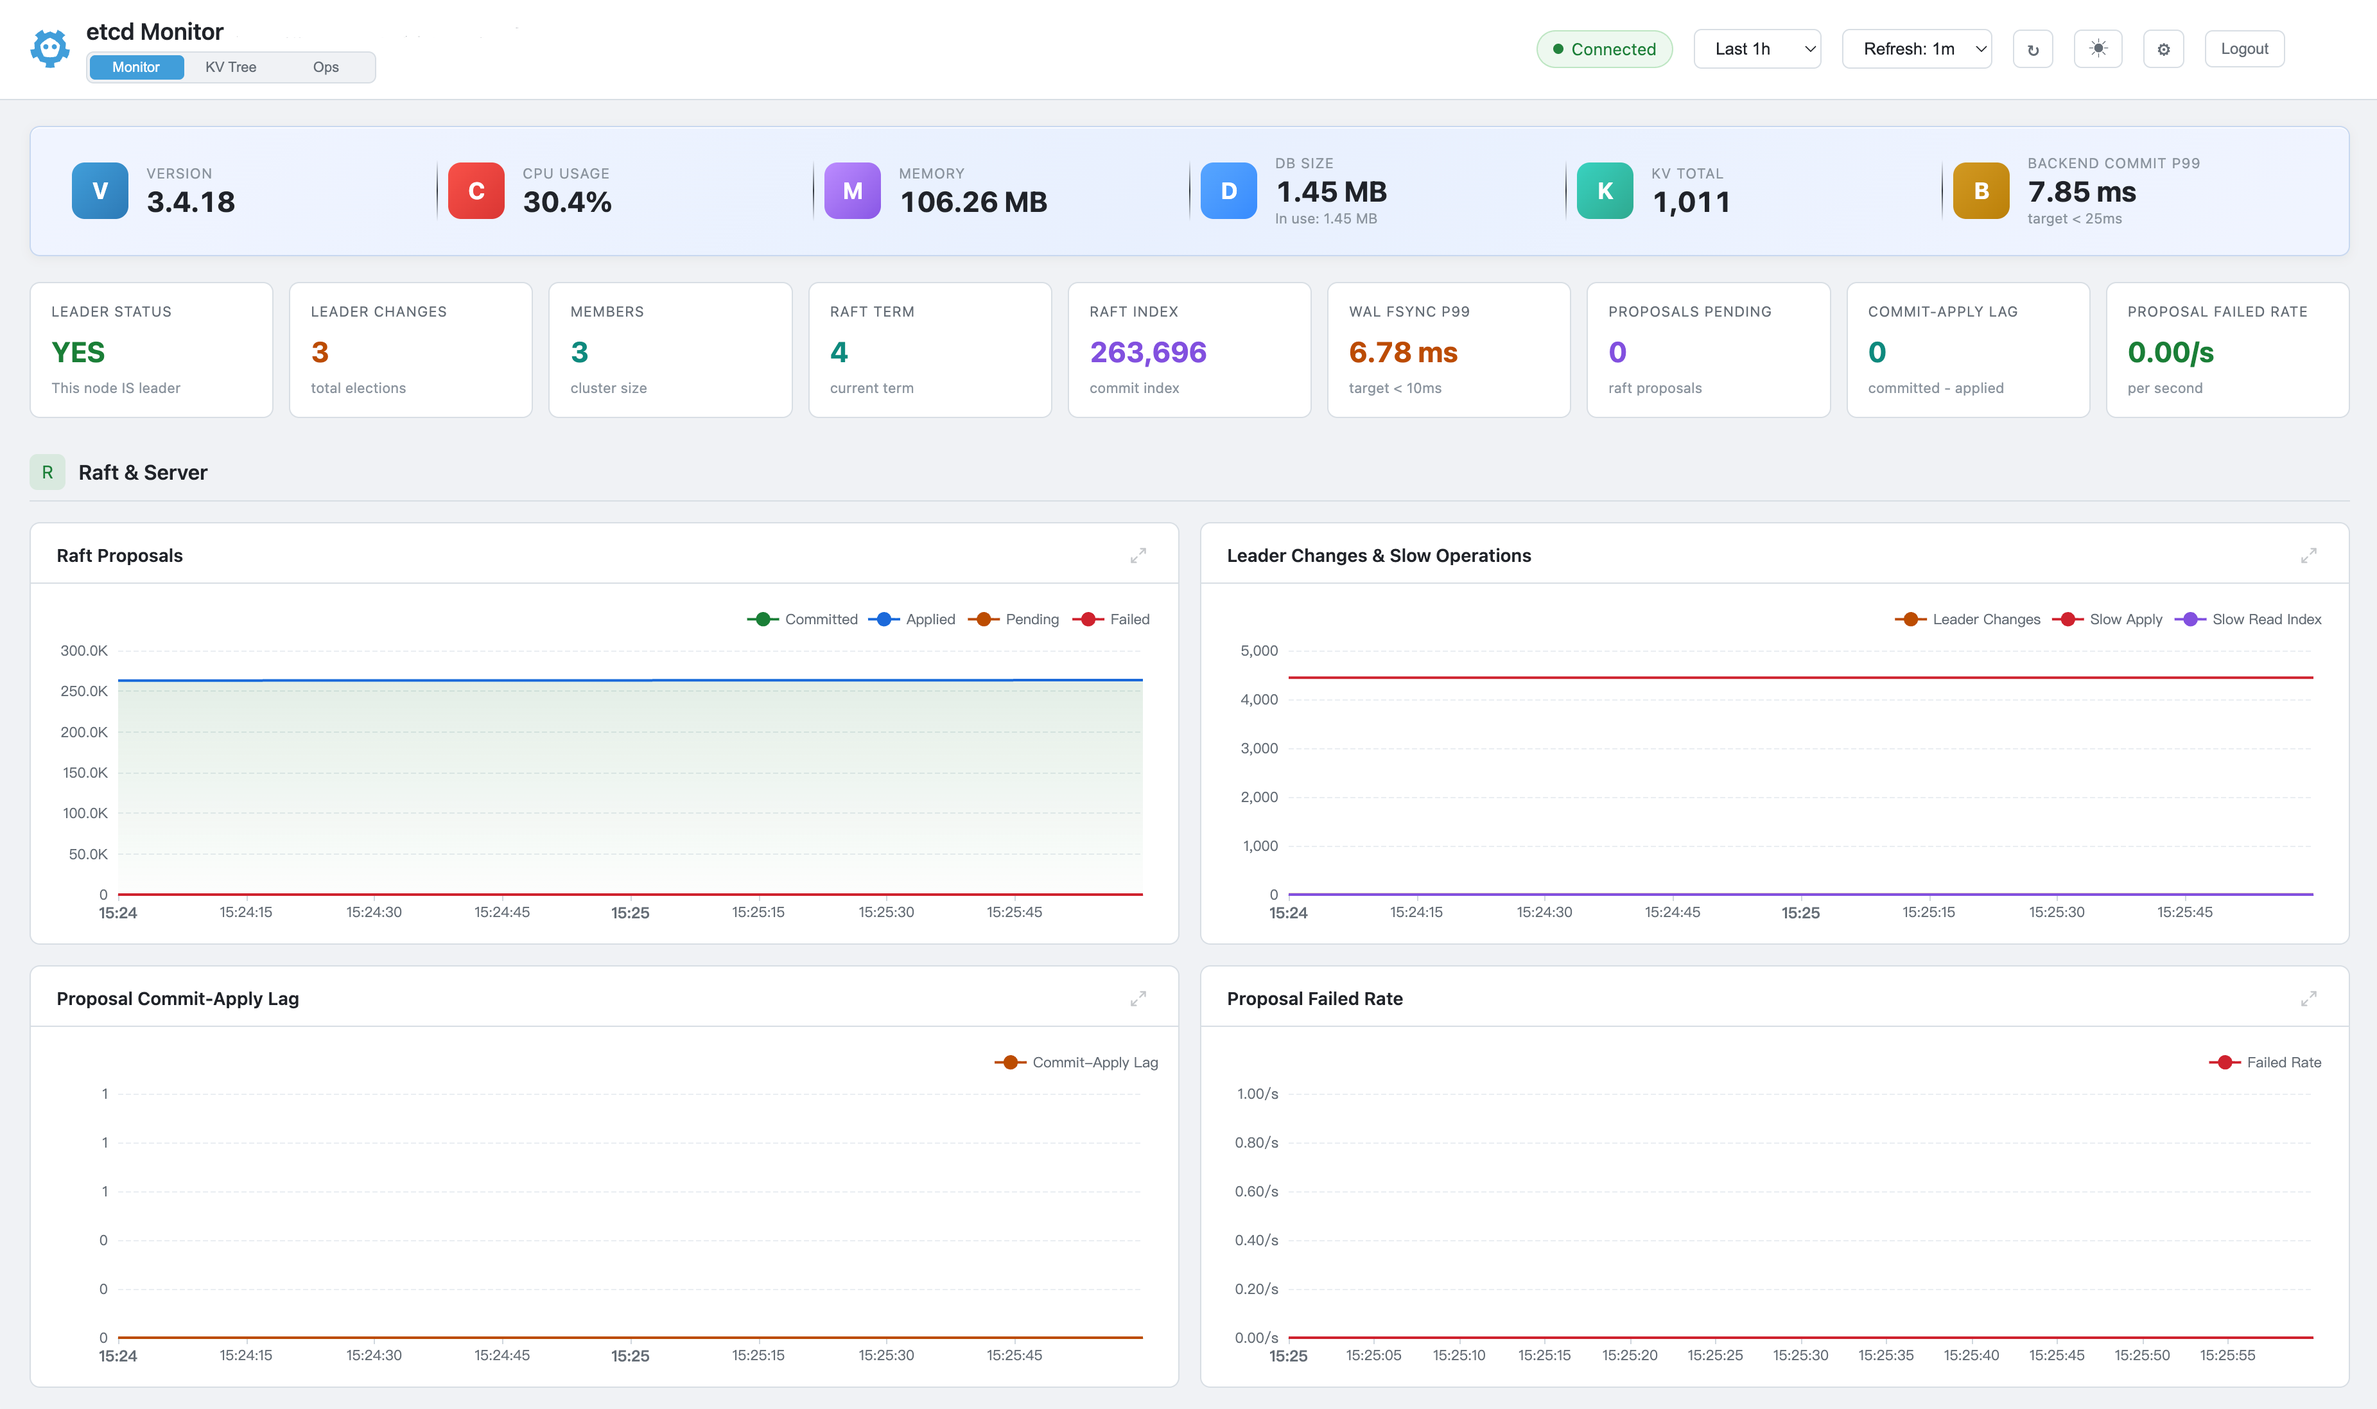
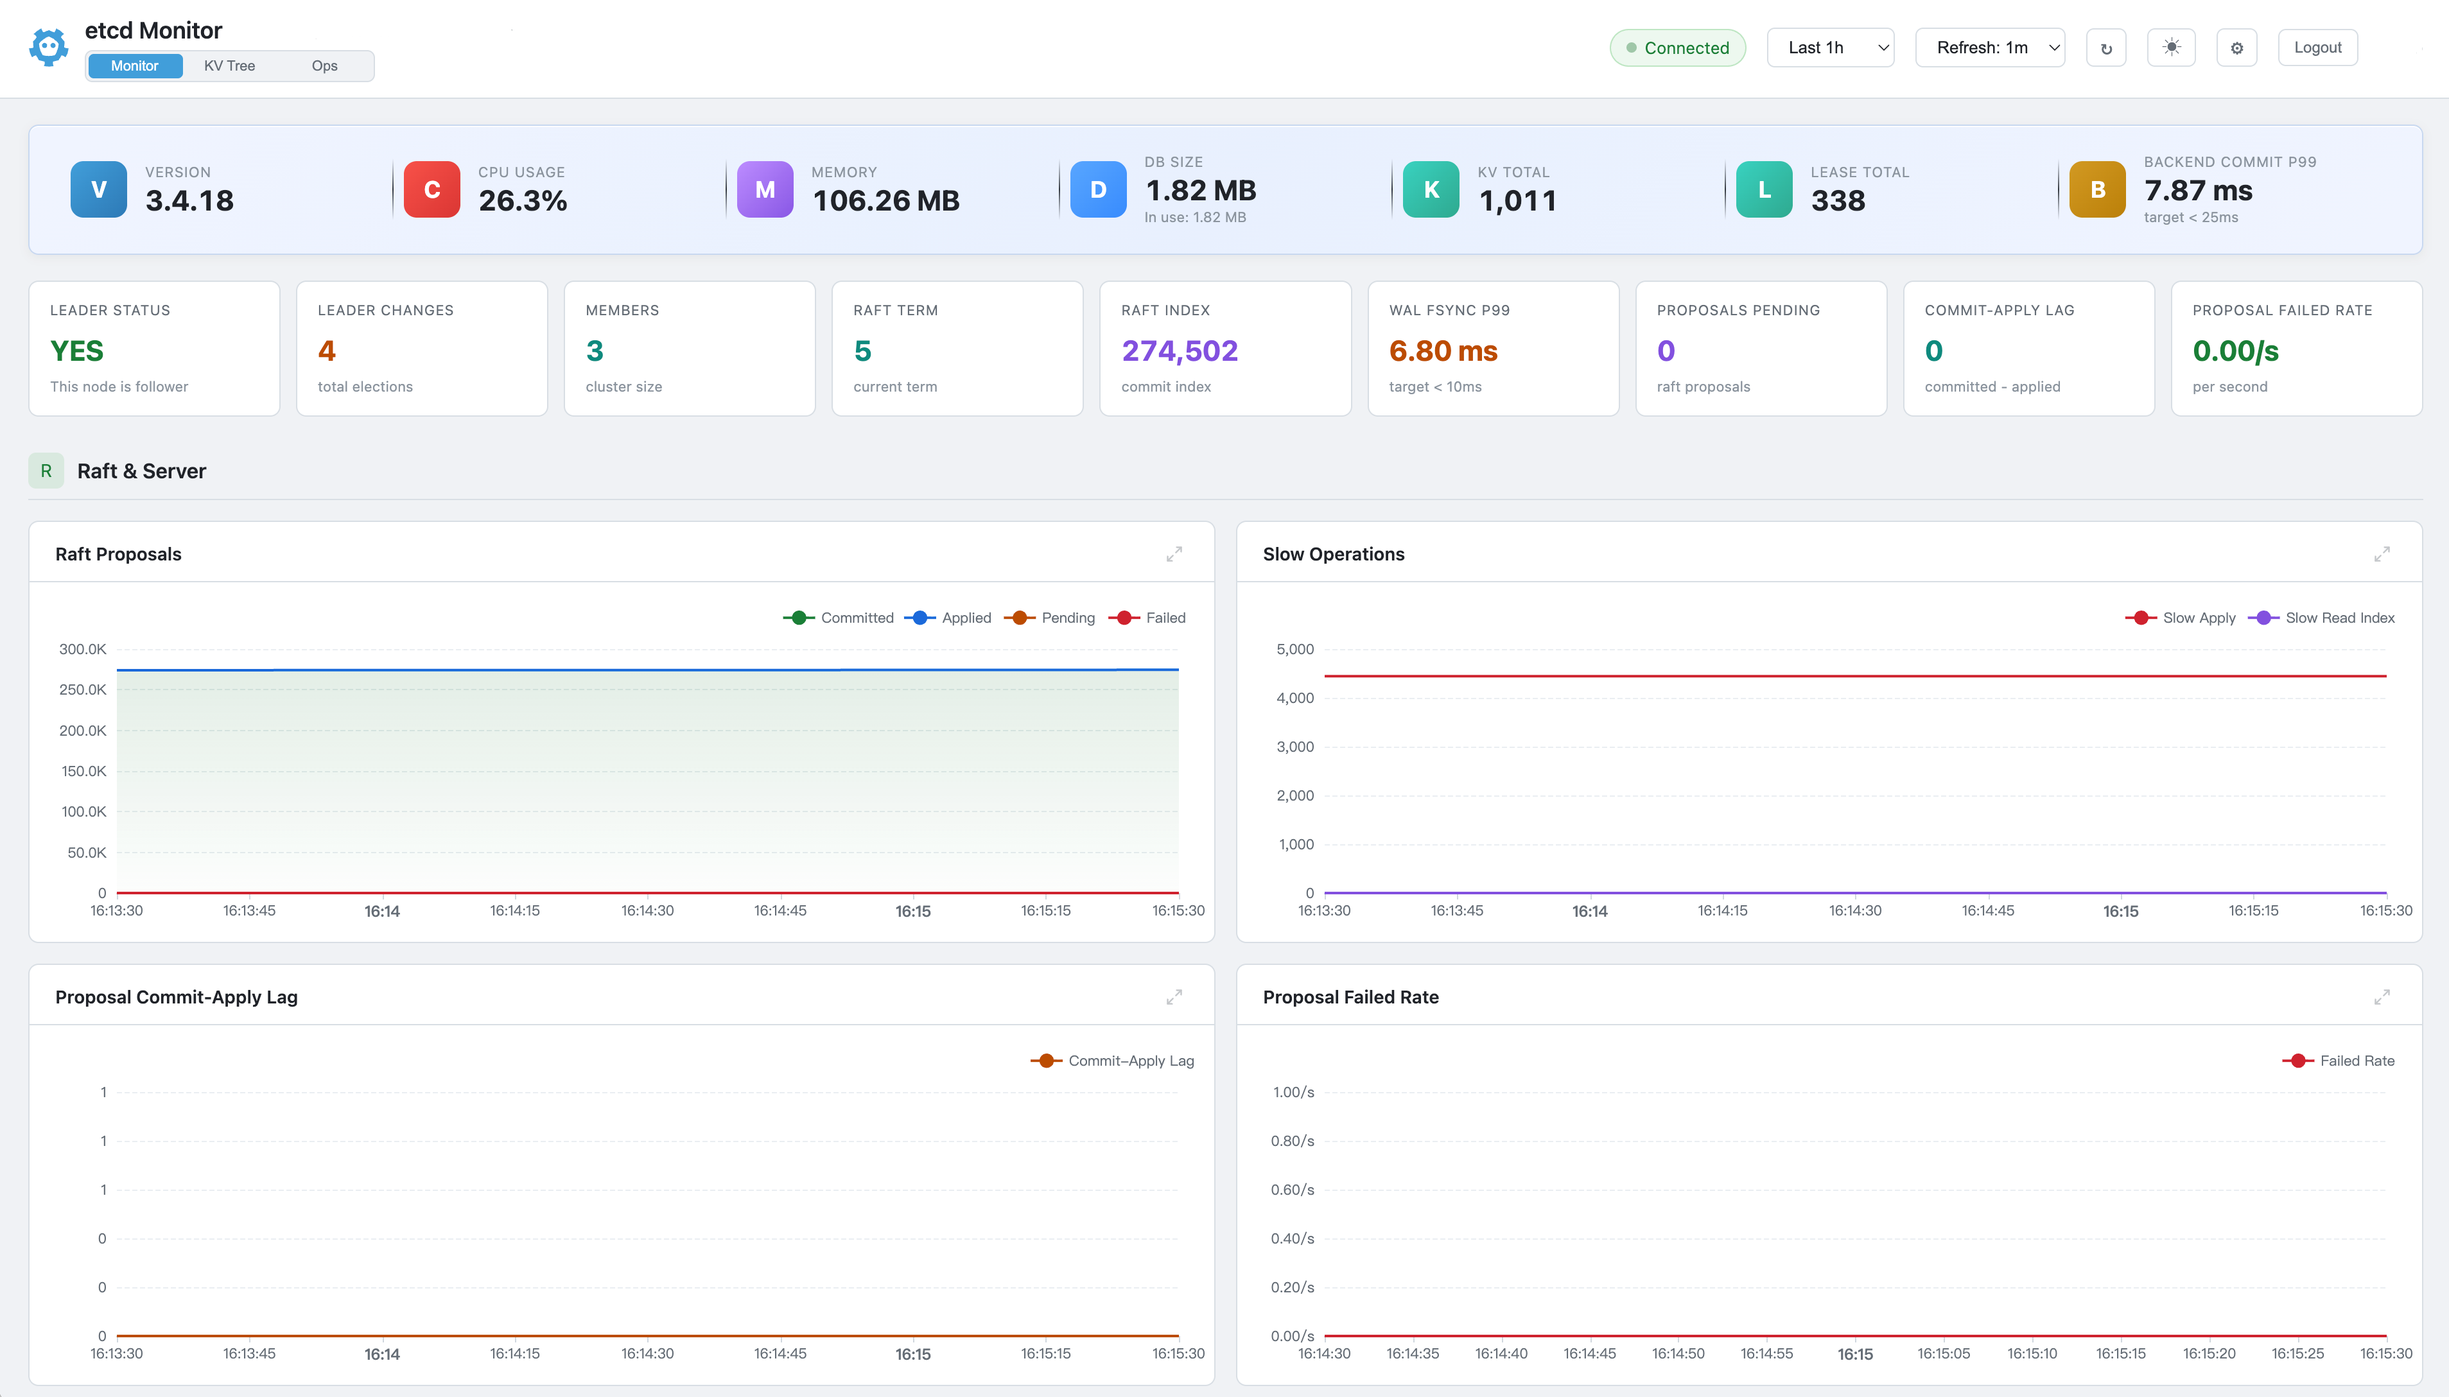
更新相关指标展示

diff --git a/web/app.js b/web/app.js
@@ -16,31 +16,32 @@ let currentPanelConfig = null; // 当前面板配置
 // 每个面板的元数据：ID、显示名称、所属分区、默认顺序
 const PANEL_REGISTRY = [
     { id: 'chartRaftProposals',    name: 'Raft Proposals',               section: 'raft',    order: 0 },
-    { id: 'chartLeaderChanges',    name: 'Leader Changes & Slow Ops',    section: 'raft',    order: 1 },
-    { id: 'chartProposalLag',      name: 'Proposal Commit-Apply Lag',    section: 'raft',    order: 2 },
-    { id: 'chartProposalFailedRate', name: 'Proposal Failed Rate',       section: 'raft',    order: 3 },
-    { id: 'chartWALFsync',        name: 'WAL Fsync Duration',            section: 'disk',    order: 4 },
-    { id: 'chartBackendCommit',    name: 'Backend Commit Duration',      section: 'disk',    order: 5 },
-    { id: 'chartDBSize',          name: 'Database Size',                  section: 'storage', order: 6 },
-    { id: 'chartMVCCOps',         name: 'MVCC Operations',                section: 'storage', order: 7 },
-    { id: 'chartPeerTraffic',     name: 'Peer Network Traffic',           section: 'network', order: 8 },
-    { id: 'chartPeerRTT',         name: 'Peer Round Trip Time',           section: 'network', order: 9 },
-    { id: 'chartGRPC',            name: 'gRPC Request Rate',              section: 'grpc',    order: 10 },
-    { id: 'chartGRPCTraffic',     name: 'gRPC Client Traffic',            section: 'grpc',    order: 11 },
-    { id: 'chartCPU',             name: 'CPU Usage',                      section: 'runtime', order: 12 },
-    { id: 'chartMemory',          name: 'Memory',                         section: 'runtime', order: 13 },
-    { id: 'chartGoroutines',      name: 'Goroutines',                     section: 'runtime', order: 14 },
-    { id: 'chartGC',              name: 'GC Duration',                    section: 'runtime', order: 15 },
-    { id: 'chartFDs',             name: 'File Descriptors',               section: 'runtime', order: 16 },
-    { id: 'chartMemSys',          name: 'Memory Sys',                     section: 'runtime', order: 17 },
+    { id: 'chartLeaderChanges',    name: 'Leader Changes',               section: 'raft',    order: 1 },
+    { id: 'chartSlowOps',           name: 'Slow Operations',              section: 'raft',    order: 2 },
+    { id: 'chartProposalLag',      name: 'Proposal Commit-Apply Lag',    section: 'raft',    order: 3 },
+    { id: 'chartProposalFailedRate', name: 'Proposal Failed Rate',       section: 'raft',    order: 4 },
+    { id: 'chartWALFsync',        name: 'WAL Fsync Duration',            section: 'disk',    order: 5 },
+    { id: 'chartBackendCommit',    name: 'Backend Commit Duration',      section: 'disk',    order: 6 },
+    { id: 'chartDBSize',          name: 'Database Size',                  section: 'storage', order: 7 },
+    { id: 'chartMVCCOps',         name: 'MVCC Operations',                section: 'storage', order: 8 },
+    { id: 'chartPeerTraffic',     name: 'Peer Network Traffic',           section: 'network', order: 9 },
+    { id: 'chartPeerRTT',         name: 'Peer Round Trip Time',           section: 'network', order: 10 },
+    { id: 'chartGRPC',            name: 'gRPC Request Rate',              section: 'grpc',    order: 11 },
+    { id: 'chartGRPCTraffic',     name: 'gRPC Client Traffic',            section: 'grpc',    order: 12 },
+    { id: 'chartCPU',             name: 'CPU Usage',                      section: 'runtime', order: 13 },
+    { id: 'chartMemory',          name: 'Memory',                         section: 'runtime', order: 14 },
+    { id: 'chartGoroutines',      name: 'Goroutines',                     section: 'runtime', order: 15 },
+    { id: 'chartGC',              name: 'GC Duration',                    section: 'runtime', order: 16 },
+    { id: 'chartFDs',             name: 'File Descriptors',               section: 'runtime', order: 17 },
+    { id: 'chartMemSys',          name: 'Memory Sys',                     section: 'runtime', order: 18 },
     // === 扩展面板（默认隐藏） ===
-    { id: 'chartServerHealth',     name: 'Server Health & Quota',          section: 'raft',    order: 18 },
-    { id: 'chartSnapshotDefrag',   name: 'Snapshot & Defrag Duration',     section: 'disk',    order: 19 },
-    { id: 'chartBackendBreakdown', name: 'Backend Commit Breakdown',       section: 'disk',    order: 20 },
-    { id: 'chartMVCCCompaction',   name: 'MVCC Revisions & Compaction',    section: 'storage', order: 21 },
-    { id: 'chartWatcherEvents',    name: 'Watcher & Events',               section: 'storage', order: 22 },
-    { id: 'chartLeaseActivity',    name: 'Lease Activity',                 section: 'lease',   order: 23 },
-    { id: 'chartActivePeersGRPC',  name: 'Active Peers & gRPC Messages',   section: 'network', order: 24 },
+    { id: 'chartServerHealth',     name: 'Server Health & Quota',          section: 'raft',    order: 19 },
+    { id: 'chartSnapshotDefrag',   name: 'Snapshot & Defrag Duration',     section: 'disk',    order: 20 },
+    { id: 'chartBackendBreakdown', name: 'Backend Commit Breakdown',       section: 'disk',    order: 21 },
+    { id: 'chartMVCCCompaction',   name: 'MVCC Revisions & Compaction',    section: 'storage', order: 22 },
+    { id: 'chartWatcherEvents',    name: 'Watcher & Events',               section: 'storage', order: 23 },
+    { id: 'chartLeaseActivity',    name: 'Lease Activity',                 section: 'lease',   order: 24 },
+    { id: 'chartActivePeersGRPC',  name: 'Active Peers & gRPC Messages',   section: 'network', order: 25 },
 ];
 
 const SECTION_META = {
@@ -378,6 +379,10 @@ function updateBanner(metrics) {
     const keys = metrics['etcd_mvcc_keys_total'];
     document.getElementById('bannerKeys').textContent = keys !== undefined ? Math.round(keys).toLocaleString() : '-';
 
+    // Lease Total
+    const leaseCount = metrics['etcd_lease_count'];
+    document.getElementById('bannerLeaseCount').textContent = leaseCount !== undefined ? Math.round(leaseCount).toLocaleString() : '-';
+
     // Backend Commit P99
     const commitP99 = metrics['etcd_disk_backend_commit_duration_seconds_p99'];
     const commitEl = document.getElementById('bannerCommitP99');
@@ -493,7 +498,21 @@ function updateLeaderChanges(data) {
         xAxis: { type: 'time', ...AXIS_STYLE_() },
         yAxis: { type: 'value', ...AXIS_STYLE_() },
         series: [
-            makeSeries('Leader Changes', COLORS_().orange, data['etcd_server_leader_changes_seen_total']),
+            makeSeries('Leader Changes', COLORS_().orange, data['etcd_server_leader_changes_seen_total'])
+        ]
+    });
+}
+
+function updateSlowOps(data) {
+    const chart = charts['chartSlowOps'];
+    if (!chart) return;
+    chart.setOption({
+        tooltip: TOOLTIP_(),
+        legend: LEGEND_(),
+        grid: GRID_LEGEND,
+        xAxis: { type: 'time', ...AXIS_STYLE_() },
+        yAxis: { type: 'value', ...AXIS_STYLE_() },
+        series: [
             makeSeries('Slow Apply', COLORS_().red, data['etcd_server_slow_apply_total']),
             makeSeries('Slow Read Index', COLORS_().purple, data['etcd_server_slow_read_indexes_total'])
         ]
@@ -1225,6 +1244,7 @@ async function refresh() {
     // Update all charts
     updateRaftProposals(rangeData);
     updateLeaderChanges(rangeData);
+    updateSlowOps(rangeData);
     updateProposalLag(rangeData);
     updateProposalFailedRate(rangeData);
     updateWALFsync(rangeData);

diff --git a/web/index.html b/web/index.html
@@ -119,6 +119,14 @@
         </div>
         <div class="key-metric-divider"></div>
         <div class="key-metric">
+            <div class="key-metric-icon keys">L</div>
+            <div class="key-metric-info">
+                <div class="key-metric-label">Lease Total</div>
+                <div class="key-metric-value" id="bannerLeaseCount">-</div>
+            </div>
+        </div>
+        <div class="key-metric-divider"></div>
+        <div class="key-metric">
             <div class="key-metric-icon commit">B</div>
             <div class="key-metric-info">
                 <div class="key-metric-label">Backend Commit P99</div>
@@ -193,10 +201,17 @@
         </div>
         <div class="panel" data-panel-id="chartLeaderChanges">
             <div class="panel-header">
-                <span class="panel-title">Leader Changes & Slow Operations</span>
+                <span class="panel-title">Leader Changes</span>
                 <span class="panel-header-actions"><span class="panel-tag">Counter</span><button class="panel-maximize-btn" onclick="togglePanelMaximize(this)" title="Maximize"><svg viewBox="0 0 24 24"><polyline points="15 3 21 3 21 9"/><polyline points="9 21 3 21 3 15"/><line x1="21" y1="3" x2="14" y2="10"/><line x1="3" y1="21" x2="10" y2="14"/></svg></button></span>
             </div>
             <div class="panel-body" id="chartLeaderChanges"></div>
+        </div>
+        <div class="panel" data-panel-id="chartSlowOps">
+            <div class="panel-header">
+                <span class="panel-title">Slow Operations</span>
+                <span class="panel-header-actions"><span class="panel-tag">Counter</span><button class="panel-maximize-btn" onclick="togglePanelMaximize(this)" title="Maximize"><svg viewBox="0 0 24 24"><polyline points="15 3 21 3 21 9"/><polyline points="9 21 3 21 3 15"/><line x1="21" y1="3" x2="14" y2="10"/><line x1="3" y1="21" x2="10" y2="14"/></svg></button></span>
+            </div>
+            <div class="panel-body" id="chartSlowOps"></div>
         </div>
         <div class="panel" data-panel-id="chartProposalLag">
             <div class="panel-header">

diff --git a/internal/prefs/prefs.go b/internal/prefs/prefs.go
@@ -27,31 +27,32 @@ type PanelConfig struct {
 // DefaultPanels 默认面板列表（全选、原始顺序）
 var DefaultPanels = []PanelItem{
 	{ID: "chartRaftProposals", Visible: true, Order: 0},
-	{ID: "chartLeaderChanges", Visible: true, Order: 1},
-	{ID: "chartProposalLag", Visible: true, Order: 2},
-	{ID: "chartProposalFailedRate", Visible: true, Order: 3},
-	{ID: "chartWALFsync", Visible: true, Order: 4},
-	{ID: "chartBackendCommit", Visible: true, Order: 5},
-	{ID: "chartDBSize", Visible: true, Order: 6},
-	{ID: "chartMVCCOps", Visible: true, Order: 7},
-	{ID: "chartPeerTraffic", Visible: true, Order: 8},
-	{ID: "chartPeerRTT", Visible: true, Order: 9},
-	{ID: "chartGRPC", Visible: true, Order: 10},
-	{ID: "chartGRPCTraffic", Visible: true, Order: 11},
-	{ID: "chartCPU", Visible: true, Order: 12},
-	{ID: "chartMemory", Visible: true, Order: 13},
-	{ID: "chartGoroutines", Visible: true, Order: 14},
-	{ID: "chartGC", Visible: true, Order: 15},
-	{ID: "chartFDs", Visible: true, Order: 16},
-	{ID: "chartMemSys", Visible: true, Order: 17},
+	{ID: "chartLeaderChanges", Visible: false, Order: 1},
+	{ID: "chartSlowOps", Visible: true, Order: 2},
+	{ID: "chartProposalLag", Visible: true, Order: 3},
+	{ID: "chartProposalFailedRate", Visible: true, Order: 4},
+	{ID: "chartWALFsync", Visible: true, Order: 5},
+	{ID: "chartBackendCommit", Visible: true, Order: 6},
+	{ID: "chartDBSize", Visible: true, Order: 7},
+	{ID: "chartMVCCOps", Visible: true, Order: 8},
+	{ID: "chartPeerTraffic", Visible: true, Order: 9},
+	{ID: "chartPeerRTT", Visible: true, Order: 10},
+	{ID: "chartGRPC", Visible: true, Order: 11},
+	{ID: "chartGRPCTraffic", Visible: true, Order: 12},
+	{ID: "chartCPU", Visible: true, Order: 13},
+	{ID: "chartMemory", Visible: true, Order: 14},
+	{ID: "chartGoroutines", Visible: true, Order: 15},
+	{ID: "chartGC", Visible: true, Order: 16},
+	{ID: "chartFDs", Visible: true, Order: 17},
+	{ID: "chartMemSys", Visible: true, Order: 18},
 	// === 扩展面板（默认隐藏） ===
-	{ID: "chartServerHealth", Visible: false, Order: 18},
-	{ID: "chartSnapshotDefrag", Visible: false, Order: 19},
-	{ID: "chartBackendBreakdown", Visible: false, Order: 20},
-	{ID: "chartMVCCCompaction", Visible: false, Order: 21},
-	{ID: "chartWatcherEvents", Visible: false, Order: 22},
-	{ID: "chartLeaseActivity", Visible: false, Order: 23},
-	{ID: "chartActivePeersGRPC", Visible: false, Order: 24},
+	{ID: "chartServerHealth", Visible: false, Order: 19},
+	{ID: "chartSnapshotDefrag", Visible: false, Order: 20},
+	{ID: "chartBackendBreakdown", Visible: false, Order: 21},
+	{ID: "chartMVCCCompaction", Visible: false, Order: 22},
+	{ID: "chartWatcherEvents", Visible: false, Order: 23},
+	{ID: "chartLeaseActivity", Visible: false, Order: 24},
+	{ID: "chartActivePeersGRPC", Visible: false, Order: 25},
 }
 
 // DefaultConfig 返回默认面板配置

diff --git a/internal/collector/collector.go b/internal/collector/collector.go
@@ -217,6 +217,27 @@ func (c *Collector) injectRaftStatus(member MemberInfo, snapshot map[string]floa
 	snapshot["raft_index"] = float64(resp.RaftIndex)
 }
 
+// injectLeaseCount 调用一次 Leases() 获取活跃 Lease 数量，注入所有成员 snapshot
+func (c *Collector) injectLeaseCount(snapshots []memberSnapshot) {
+	if c.etcdClient == nil || len(snapshots) == 0 {
+		return
+	}
+
+	ctx, cancel := context.WithTimeout(context.Background(), 5*time.Second)
+	defer cancel()
+
+	resp, err := c.etcdClient.Leases(ctx)
+	if err != nil {
+		logger.Warnf("[Collector] Leases() for lease count failed: %v", err)
+		return
+	}
+
+	count := float64(len(resp.Leases))
+	for i := range snapshots {
+		snapshots[i].snapshot["etcd_lease_count"] = count
+	}
+}
+
 // memberSnapshot 一次采集的结果
 type memberSnapshot struct {
 	member   MemberInfo
@@ -301,8 +322,17 @@ func (c *Collector) collect() {
 
 	// 阶段2：串行写入 SQLite（避免 SQLITE_BUSY）
 	// 写入前注入 raft_term / raft_index（通过 Status() gRPC 获取）
+	var collected []memberSnapshot
 	for res := range results {
 		c.injectRaftStatus(res.member, res.snapshot)
+		collected = append(collected, res)
+	}
+
+	// 注入 Lease 总数（集群级，调用一次注入所有成员）
+	c.injectLeaseCount(collected)
+
+	// 写入 SQLite
+	for _, res := range collected {
 		if err := c.store.Store(now, res.member.ID, res.snapshot); err != nil {
 			logger.Errorf("[Collector] [%s] Error storing metrics: %v", res.member.Name, err)
 		} else {
